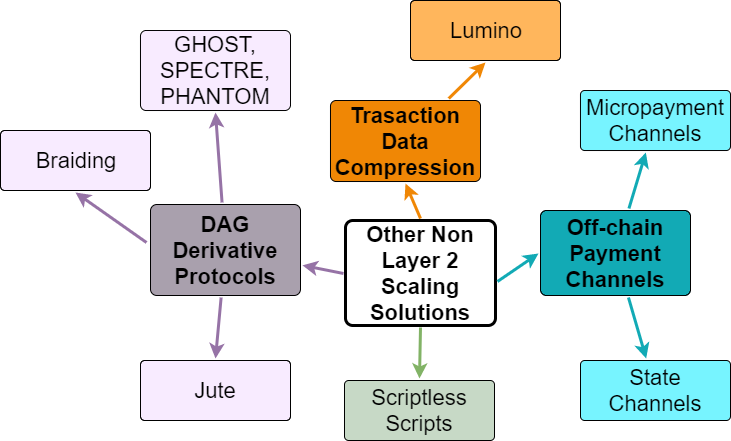
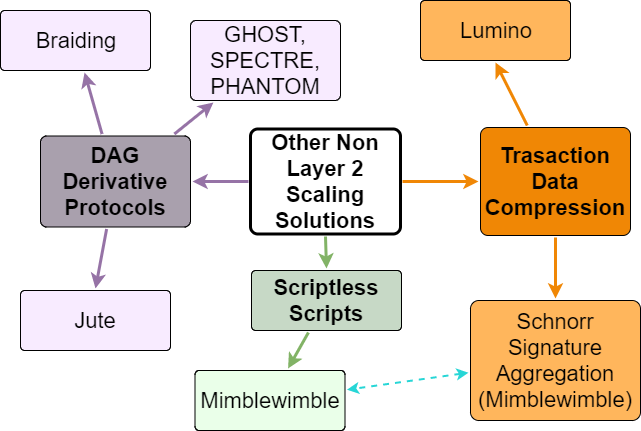
Images update

diff --git a/layer2scaling/executive-summary/PITCHME.md b/layer2scaling/executive-summary/PITCHME.md
@@ -18,9 +18,23 @@
 
 ## Layer 2 Scaling Landscape
 
+- L2S can be roughly grouped into these groups:
+  - Off-chain matching engines
+  - Off-chain processing nodes
+  - Off-chain payment channels
+  - Two way pegged secondary chains
+  - Tiered block chains
+
 
 
 ![L2ScalingLandscape](https://raw.githubusercontent.com/tari-labs/tari-university/L2ScalingUpdate/layer2scaling/executive-summary/sources/L2ScalingLandscape.png)
+
+
+
+- Other technologies investigated, mainly directly on the primary block chain
+  - DAG derivative protocols
+  - Transaction data compression
+  - Scriptless scripts
 
 
 
@@ -30,7 +44,7 @@
 
 ## How will this be Applicable to Tari?
 
-- Tari is a high-throughput protocol -> tens of thousands of transactions per second
+- Tari is a high-throughput protocol -> tens of thousands of transactions per second imagined
 - This will be impossible to do with parent block chain scaling solutions
 - Use cases:
   - EventCorp, the stadium owner
